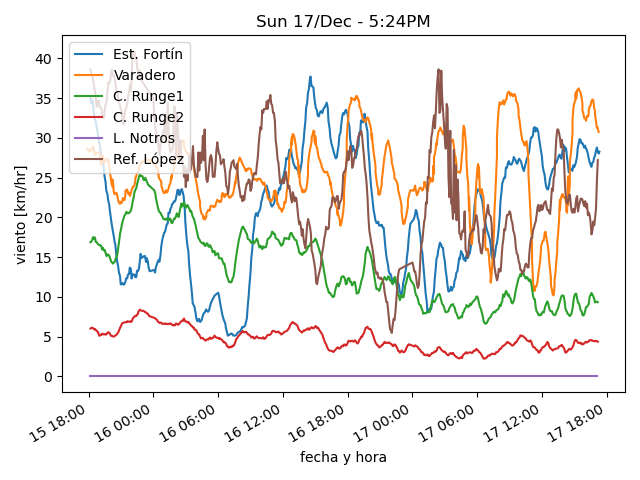
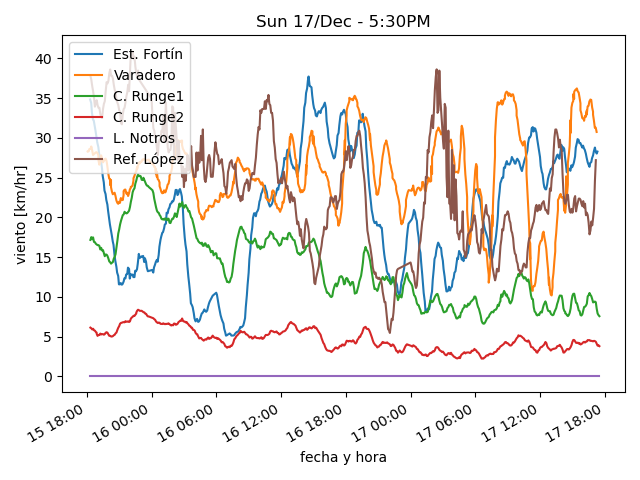
actualiza datos

diff --git a/estaciones/estacion3.html b/estaciones/estacion3.html
@@ -18,32 +18,32 @@
     </tr>
     <tr>
      <td class="stats_data">
-      5:09PM
+      5:29PM
      </td>
     </tr>
     <tr>
      <td class="stats_data">
-      9.4
+      11.1
      </td>
     </tr>
     <tr>
      <td class="stats_data">
-      1.9
+      1.1
      </td>
     </tr>
     <tr>
      <td class="stats_data">
-      59.5
+      50.1
      </td>
     </tr>
     <tr>
      <td class="stats_data">
-      1009.11
+      1009.31
      </td>
     </tr>
     <tr>
      <td class="stats_data">
-      5.3/8.0 NW
+      5.3/7.2 WSW
      </td>
     </tr>
     <tr>
@@ -53,12 +53,12 @@
     </tr>
     <tr>
      <td class="stats_data">
-      1.0
+      8.0
      </td>
     </tr>
     <tr>
      <td class="stats_data">
-      169.1
+      744.4
      </td>
     </tr>
    </tbody>

diff --git a/estaciones/estacion4.html b/estaciones/estacion4.html
@@ -18,32 +18,32 @@
     </tr>
     <tr>
      <td class="stats_data">
-      5:09PM
+      5:29PM
      </td>
     </tr>
     <tr>
      <td class="stats_data">
-      9.7
+      11.5
      </td>
     </tr>
     <tr>
      <td class="stats_data">
-      1.4
+      0.7
      </td>
     </tr>
     <tr>
      <td class="stats_data">
-      56.0
+      47.3
      </td>
     </tr>
     <tr>
      <td class="stats_data">
-      1018.02
+      1018.12
      </td>
     </tr>
     <tr>
      <td class="stats_data">
-      1.9/3.4 SW
+      2.2/3.1 SW
      </td>
     </tr>
     <tr>
@@ -58,7 +58,7 @@
     </tr>
     <tr>
      <td class="stats_data">
-      138.1
+      155.5
      </td>
     </tr>
    </tbody>

diff --git a/estaciones/estacion5.html b/estaciones/estacion5.html
@@ -18,17 +18,17 @@
     </tr>
     <tr>
      <td class="stats_data">
-      5:05PM
+      5:25PM
      </td>
     </tr>
     <tr>
      <td class="stats_data">
-      13.4
+      11.9
      </td>
     </tr>
     <tr>
      <td class="stats_data">
-      2.2
+      0.9
      </td>
     </tr>
     <tr>
@@ -38,7 +38,7 @@
     </tr>
     <tr>
      <td class="stats_data">
-      1018.29
+      1019.1
      </td>
     </tr>
     <tr>
